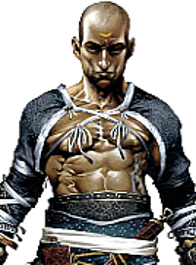
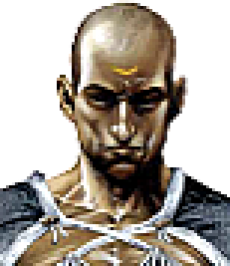
foto

diff --git a/paginas/uploadcrop.php b/paginas/uploadcrop.php
@@ -28,36 +28,71 @@ if (!isset($_SESSION['random_key']) || strlen($_SESSION['random_key'])==0){
    $_SESSION['random_key'] = strtotime(date('Y-m-d H:i:s')); //assign the timestamp to the session variable
    $_SESSION['user_file_ext']= "";
 }
-if($_GET['raca']==null){
-   //echo 'raca em branco';die;
+//print_r([$_POST,$_GET]);die;
+if($_GET['raca']==null && $_GET['edicao']==null){
    $raca=$model->getraca();
    $classe=$model->getclasse();
    $sexo=$model->getsexo();
    $personagem=$model->getpersonagem();
-}else{
+}elseif($_GET['raca']){
    $raca=$_GET['raca'];
    $classe=$_GET['classe'];
    $sexo=$_GET['sexo'];
    $personagem=$_GET['personagem'];
+}elseif($_GET['edicao']){
+   include_once '../dao/dao.php';
+   include_once '../model/model.php';
+   include_once '../validacao/valida_cookies.php';
+   include_once '../mapping/modelMapper.php';
+   include_once '../dao/ModelSearchCriteria.php';
+   include_once '../validacao/ModelValidador.php';
+   
+   $dao = new dao();
+   $search = new ModelSearchCriteria();
+   $search->settabela('personagem');
+   $search->setpersonagem($_GET['personagem']);
+   //$model=$dao->encontre($search);
+   foreach($dao->encontre($search) as $model);
+   $raca=$model->getraca();
+   $classe=$model->getclasse();
+   $sexo=$model->getsexo();
+   $personagem=$_GET['personagem'];
+   $foto = substr($model->getavatar(),0,strripos($model->getavatar(),'/')+1).'foto/'.substr($model->getavatar(),strripos($model->getavatar(),'/')+1);
+   $model->setfoto($foto);
+   
+   $dao->grava($model);
+   //echo '<pre>';
+  //print_r($model);die;
 }
 /*print_r([$_FILES,$_POST,$model,$_GET,$large_photo_exists]);die;
 if (isset($_POST["upload_thumbnail"])){ // && strlen($large_photo_exists)>0
 echo "<pre>";
 print_r([$_FILES,$_POST,$model,$_GET]);die;
 }*/
+
 $upload_dir = "../web/imagens/personagens/$raca/$classe/$sexo";
 $upload_path = $upload_dir."/";
 $quantArquivos = glob("$upload_path*.*", GLOB_BRACE);
 $large_image_prefix = "resize_";
 $thumb_image_prefix = "thumbnail_";
-$large_image_name = count($quantArquivos)+1;//$large_image_prefix.$_FILES['avatarMestre']['name'];//$_SESSION['random_key'];
-$thumb_image_name = count($quantArquivos)+1;//$thumb_image_prefix.$_FILES['avatarMestre']['name'];//$_SESSION['random_key'];
-if(!isset($act)){
+
+//echo $model->getavatar().'<br>';
+if($_GET['edicao']){
+   $large_image_name = substr($model->getavatar(),strripos($model->getavatar(),'/')+1);
+   $thumb_image_name = substr($model->getavatar(),strripos($model->getavatar(),'/')+1);
+}else{
+   $large_image_name = count($quantArquivos)+1;//$large_image_prefix.$_FILES['avatarMestre']['name'];//$_SESSION['random_key'];
+   $thumb_image_name = count($quantArquivos)+1;//$thumb_image_prefix.$_FILES['avatarMestre']['name'];//$_SESSION['random_key'];
+}
+//print_r([$large_image_name,$thumb_image_name,$model->getavatar()]);die;
+//print_r([$large_image_name,$thumb_image_name]);die;
+if(!isset($act) && !$_GET['edicao']){
 //print_r([$large_image_name-1,$thumb_image_name-1,$act]);
    //echo 'act é -> '.$act;die;
    $large_image_name=$large_image_name-1;
    $thumb_image_name=$thumb_image_name-1;
 }
+//print_r([$large_image_name,$thumb_image_name,$model->getavatar()]);die;
 $max_file = "3";// Maximum file size in MB
 $max_width = "400";// Max width allowed for the large image
 $thumb_width = "230";// Width of thumbnail image
@@ -142,13 +177,7 @@ function resizeThumbnailImage($thumb_image_name, $image, $width, $height, $start
          $source=imagecreatefrompng($image); 
          break;
    }
-   
-   
-   
-//imagefilledrectangle($newImage, 0, 0, $nWidth, $nHeight, $transparent);
-//imagecopyresampled($newImage, $im, 0, 0, 0, 0, $nWidth, $nHeight, $imgInfo[0], $imgInfo[1]);
-//imagecopyresampled($newImage, $source, 0, 0, 0, 0, $start_width, $start_height, $newImageWidth, $newImageHeight);
-   
+    
    
    imagecopyresampled($newImage,$source,0,0,$start_width,$start_height,$newImageWidth,$newImageHeight,$width,$height);
    switch($imageType) {
@@ -235,9 +264,14 @@ if (isset($_POST["upload"])) {
          //print_r([$_FILES,$large_image_location,$userfile_tmp]);echo '<br>';die;
          $_SESSION['user_file_ext']=".".$file_ext;
 
-         move_uploaded_file($userfile_tmp, $large_image_location);
-         chmod($large_image_location, 0777);
-         //print_r($large_image_location);
+         //print_r($userfile_tmp);die;
+         if($_GET['edicao']!=1){
+            move_uploaded_file($userfile_tmp, $large_image_location);
+            chmod($large_image_location, 0777);
+         }else{
+            $large_image_location=$_GET['avatar'];
+         } 
+         //print_r($large_image_location);die;
 
          $width = getWidth($large_image_location);
          $height = getHeight($large_image_location);
@@ -260,7 +294,10 @@ if (isset($_POST["upload"])) {
    } 
 } 
 //Check to see if any images with the same name already exist
-//print_r([$large_image_location,$thumb_image_location]);
+if($_GET['edicao']==1){
+   $large_image_location=$_GET['avatar'];
+}
+//print_r([$large_image_location,$thumb_image_location]);die;
 if (file_exists($large_image_location)){
    if(file_exists($thumb_image_location)){
       $thumb_photo_exists = "<img src=\"".$thumb_image_location."\" alt=\"Thumbnail Image\"/>";
@@ -269,14 +306,14 @@ if (file_exists($large_image_location)){
    }
    $large_photo_exists = "<img src=\"".$large_image_location."\" alt=\"Large Image\"/>";
       //print_r([$large_photo_exists,$large_image_location,$thumb_photo_exists]);die;
-   //print_r($thumb_image_location);die;
+   //print_r($large_photo_exists);die;
 } else {
    $large_photo_exists = "";
    $thumb_photo_exists = "";
 }
 //print_r($large_photo_exists);die;
 //print_r([$large_image_location,$_POST,$large_photo_exists,$thumb_photo_exists,$_FILES]);
-
+//print_r($_POST);die;
 if (isset($_POST["upload_thumbnail"])) {// && strlen($large_photo_exists)>0
    //Get the new coordinates to crop the image.
    $x1 = $_POST["x1"];
@@ -287,7 +324,15 @@ if (isset($_POST["upload_thumbnail"])) {// && strlen($large_photo_exists)>0
    $h = $_POST["h"];
    //Scale the image to the thumb_width set above
    $scale = $thumb_width/$w;
-   $cropped = resizeThumbnailImage($thumb_image_location, $large_image_location,$w,$h,$x1,$y1,$scale);
+   if($_POST['edicao']==1){
+      $thumb_image_location = substr($_GET['foto'],0,strripos($_GET['foto'],'/')+1).'/foto/'.substr($_GET['foto'],strripos($_GET['foto'],'/')+1,-1);
+   }
+   $cropped = resizeThumbnailImage($thumb_image_location, $_GET['foto'],$w,$h,$x1,$y1,$scale);
+   //print_r($cropped);die;
+   if($_POST['edicao']==1){
+      $url='../web/index.php?pagina=ficha2&personagem='.$peronagem;
+      header("location:$url");
+   }
    //Reload the page again to view the thumbnail
    header("location:../web/index.php?pagina=cadastro&act=cad2&raca=$raca&classe=$classe&personagem=$personagem");
    exit();
@@ -307,8 +352,15 @@ if ($_GET['a']=="delete" && strlen($_GET['t'])>0){
    header("location:".$_SERVER["PHP_SELF"]);
    exit(); 
 }
-$model->setavatar($large_image_location);
-$model->setfoto($thumb_image_location);
+if($_GET['edicao']==1){
+   //$large_image_location=$_GET['avatar'];
+}else{
+   $model->setavatar($large_image_location);
+   $model->setfoto($thumb_image_location);   
+}
+//print_r($large_image_location);
+//echo '<pre>';
+//print_r($model);die;
 ?>
 <!DOCTYPE html PUBLIC "-//W3C//DTD XHTML 1.0 Transitional//EN" "http://www.w3.org/TR/xhtml1/DTD/xhtml1-transitional.dtd">
 <html xmlns="http://www.w3.org/1999/xhtml">
@@ -331,9 +383,10 @@ $model->setfoto($thumb_image_location);
 <?php
 //Only display the javacript if an image has been uploaded
 //if(strlen($large_photo_exists)>0){
+//print_r($large_image_location);die;
 	$current_large_image_width = getWidth($large_image_location);
 	$current_large_image_height = getHeight($large_image_location);
-//print_r($large_image_location);die;
+//print_r($current_large_image_width);die;
 ?>
 <script type="text/javascript">
 function preview(img, selection) { 
@@ -398,17 +451,23 @@ $(window).load(function () {
       <h2>Selecione área para foto da ficha</h2>
       <div id="tudo" align="center">
          <img src="<?php echo $upload_path.$large_image_name.'.'.$file_ext;?>" id="thumbnail" alt="Create Thumbnail" />
+         <!--<img src="../web/imagens/personagens/humano/guerreiro/M/4.png" id="thumbnail" alt="Create Thumbnail" />-->
          <div style="border:1px #e5e5e5 solid; float:left; position:relative; overflow:hidden; width:<?php echo $thumb_width;?>px; height:<?php echo $thumb_height;?>px;">
             <img src="<?php echo $upload_path.$large_image_name.'.'.$file_ext;?>" id="preview" alt="Thumbnail Preview" />
          </div>
          <br style="clear:both;"/>
-         <form name="thumbnail" action="<?php echo "uploadcrop.php?raca=$raca&classe=$classe&sexo=$sexo&personagem=$personagem";?>" method="post">
+         <form name="thumbnail" action="<?php echo "uploadcrop.php?raca=$raca&classe=$classe&sexo=$sexo&personagem=$personagem&foto=".$upload_path.$large_image_name.".".$file_ext."";?>" method="post">
             <input type="hidden" name="x1" value="" id="x1" />
             <input type="hidden" name="y1" value="" id="y1" />
             <input type="hidden" name="x2" value="" id="x2" />
             <input type="hidden" name="y2" value="" id="y2" />
             <input type="hidden" name="w" value="" id="w" />
             <input type="hidden" name="h" value="" id="h" />
+            <?php 
+               if($_GET['edicao']==1){
+                  echo '<input type=hidden name=edicao value=1 />';
+               }
+            ?>
             <input type="submit" name="upload_thumbnail" value="Salvar Foto" id="save_thumb" />
          </form>
       </div>
